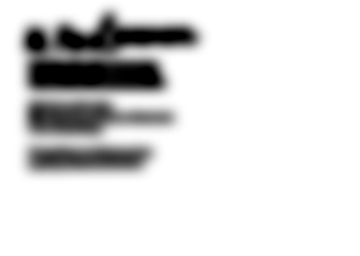
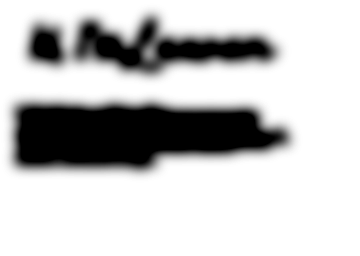
About steps through her frames 1, 2, 3 and the transition on scroll (#18)
Each scroll past the threshold brings the next words while the koi dart ahead;
from the transition the next scroll sets off for currently, and the About
leaves ride the current over with the koi.

Claude-Session: https://claude.ai/code/session_01BaK7PRdKtw21ohF7UwnR1N

diff --git a/index.html b/index.html
@@ -470,12 +470,12 @@
   const prog = gl.createProgram(); gl.attachShader(prog, sh(gl.VERTEX_SHADER, vs)); gl.attachShader(prog, sh(gl.FRAGMENT_SHADER, fs)); gl.linkProgram(prog); gl.useProgram(prog);
   const aP = gl.getAttribLocation(prog, 'p'), aUV = gl.getAttribLocation(prog, 'uv');
   gl.uniform2f(gl.getUniformLocation(prog, 'res'), W, H);
-  { const hx = AX + 542 * AS, hy = AY + 204 * AS;
+  { const hx = AX + 809 * AS, hy = AY + 8 * AS;
     gl.uniform4f(gl.getUniformLocation(prog, 'ovr'), AX, AY, AX + 1440 * AS, AY + 1024 * AS);
-    gl.uniform4f(gl.getUniformLocation(prog, 'hole'), hx, hy, hx + 642 * AS, hy + 830 * AS);
+    gl.uniform4f(gl.getUniformLocation(prog, 'hole'), hx, hy, hx + 631 * AS, hy + 1016 * AS);
     gl.uniform2f(gl.getUniformLocation(prog, 'ovrY'), AY - 300, AY + 300);
     gl.uniform1i(gl.getUniformLocation(prog, 't'), 0); gl.uniform1i(gl.getUniformLocation(prog, 'halo'), 1); }
-  { const im = new Image(); im.onload = () => { gl.activeTexture(gl.TEXTURE1); texFrom(im); gl.activeTexture(gl.TEXTURE0); }; im.src = 'about-halo.png?v=4'; }   // fades in with the About water, no hard edge
+  { const im = new Image(); im.onload = () => { gl.activeTexture(gl.TEXTURE1); texFrom(im); gl.activeTexture(gl.TEXTURE0); }; im.src = 'about-halo.png?v=5'; }   // fades in with the About water, no hard edge
   gl.enable(gl.BLEND); gl.blendFunc(gl.ONE, gl.ONE_MINUS_SRC_ALPHA);
   gl.pixelStorei(gl.UNPACK_PREMULTIPLY_ALPHA_WEBGL, true);
   const idx = []; for (let i = 0; i < N-1; i++) for (let j = 0; j < M-1; j++) { const a = i*M+j, b = a+1, c = a+M, d = c+1; idx.push(a,c,b, b,c,d); }
@@ -491,7 +491,7 @@
     #else
     precision mediump float;
     #endif
-    varying vec2 uv; varying vec2 wp; varying vec2 sp; uniform sampler2D t; uniform vec4 src; uniform vec4 fade; uniform vec4 fadex; uniform float time; uniform float edgeK; uniform float rep; uniform float own; uniform int mode; uniform vec2 body[16]; uniform vec3 trail[32];
+    varying vec2 uv; varying vec2 wp; varying vec2 sp; uniform sampler2D t; uniform vec4 src; uniform vec4 fade; uniform vec4 fadex; uniform float time; uniform float edgeK; uniform float rep; uniform float own; uniform float op; uniform int mode; uniform vec2 body[16]; uniform vec3 trail[32];
     void main(){
       // one continuous pond: texture coords come from world position, mirrored past the image edge,
       // so a section's water can run on under the next one while it cross-fades
@@ -513,7 +513,7 @@
       d += w / vec2(1440.0, 1024.0);
       // past her frame the window shows only water: another page's words, photo and pads stay out of the margins (edgeK > 0 only for those), the current page's are never cut
       float o = max(max(-sp.x, sp.x - 1440.0), max(-sp.y, sp.y - 1024.0)), outK = edgeK * smoothstep(0.0, 40.0, o);
-      if (mode == 3) { gl_FragColor = texture2D(t, tu) * a * (1.0 - outK); return; }      // lettering: stays crisp and still
+      if (mode == 3) { gl_FragColor = texture2D(t, tu) * a * op * (1.0 - outK); return; }      // lettering: stays crisp and still
       vec4 c = texture2D(t, tu + d);
       if (mode == 0) {                                                     // base water + drifting light
         float l = sin(q.x*5.0 + q.y*3.0 + sin(q.y*4.0 - time*0.2)*1.6 - time*0.18);
@@ -529,7 +529,7 @@
   const wU = { t: gl.getUniformLocation(wprog, 'time'), m: gl.getUniformLocation(wprog, 'mode'), b: gl.getUniformLocation(wprog, 'body'), tr: gl.getUniformLocation(wprog, 'trail'), r: gl.getUniformLocation(wprog, 'rect'), sr: gl.getUniformLocation(wprog, 'src'), f: gl.getUniformLocation(wprog, 'fade'), fx: gl.getUniformLocation(wprog, 'fadex'), c: gl.getUniformLocation(wprog, 'cam') };
   const uCam = gl.getUniformLocation(prog, 'cam'); let cam = 0, camX = 0, camZ = 1;
   const view = () => [camX - EXT[0] / camZ, cam - EXT[1] / camZ, camX + (1440 + EXT[0]) / camZ, cam + (1024 + EXT[1]) / camZ];
-  const wEdge = gl.getUniformLocation(wprog, 'edgeK'), wRep = gl.getUniformLocation(wprog, 'rep'), wOwn = gl.getUniformLocation(wprog, 'own'), uEdge = gl.getUniformLocation(prog, 'edge'), uExt = gl.getUniformLocation(prog, 'ext'), wExt = gl.getUniformLocation(wprog, 'ext');
+  const wEdge = gl.getUniformLocation(wprog, 'edgeK'), wRep = gl.getUniformLocation(wprog, 'rep'), wOwn = gl.getUniformLocation(wprog, 'own'), wOp = gl.getUniformLocation(wprog, 'op'), uEdge = gl.getUniformLocation(prog, 'edge'), uExt = gl.getUniformLocation(prog, 'ext'), wExt = gl.getUniformLocation(wprog, 'ext');
   const quad = gl.createBuffer(); gl.bindBuffer(gl.ARRAY_BUFFER, quad); gl.bufferData(gl.ARRAY_BUFFER, new Float32Array([-1,-1, 1,-1, -1,1, 1,1]), gl.STATIC_DRAW);
   const bodyArr = new Float32Array(32), trailArr = new Float32Array(96);
   function texFrom(img) {
@@ -547,7 +547,10 @@
     gl.useProgram(wprog); gl.uniform3f(wU.c, camX, cam, camZ); gl.uniform2f(wExt, EXT[0], EXT[1]); gl.uniform1f(wU.t, time); gl.uniform2fv(wU.b, bodyArr); gl.uniform3fv(wU.tr, trailArr);
   }
   const RECT = { base: [0,0,1440,1024], letter: [0,0,1440,1024], texture: [0,0,1440,1024], lines: [0,0,1440,1024],
-    aboutWater: [AX,AY,1440*AS,1024*AS], aboutLetter: [AX,AY,1440*AS,320*AS], aboutText: [AX,AY,1440*AS,1024*AS], photo: [...A(542,204),642*AS,830*AS] };   // About, laid out on the rule of thirds: headline sits on the top third line, her face on the right-third crossing, text ends on the lower third line
+    aboutWater: [AX,AY,1440*AS,1024*AS], aboutLetter: [AX,AY,1440*AS,320*AS], aboutText: [...A(119,74),991*AS,208*AS], photo: [...A(809.27,7.7),630.53*AS,1016.25*AS] };   // About, from her About 1-3 and transition frames (1728 x 1117, fitted to the frame's height): "hi, I'm Lauren" top left, her photo on the right
+  // the words that change as you scroll through About: 1, 2, 3, then "follow the current ~" (the transition)
+  const ABOUT_STEPS = [[125,424,961,172], [59,420,1096,256], [74,459,933,164], [232,470,608,100]];
+  ABOUT_STEPS.forEach((r, i) => { RECT['aboutStep' + i] = [...A(r[0], r[1]), r[2] * AS, r[3] * AS]; });
   // no edge between the sections: the Landing water runs on below its frame and the About water fades in over it
   const BLEND = 300, NOFADE = [-1e6, -1e6, 1e6, 1e6];
   RECT.pond = RECT.base;
@@ -558,13 +561,13 @@
   DRAW.artWater = [GX, AY - BLEND, GW * AS + 900, GH * AS + 900];   // starts at its own edge: a mirrored copy of her big pads used to spill under the tbd pad on currently
   const FADEX = { worksWater: [WX - BLEND, WX + BLEND, 0, 0], artWater: [GX, GX + 520, 140, 0] };   // the art pond melts in over a wide, wavy edge   // each page's water flows in sideways over the last
   const FADE = { worksWater: [AY - BLEND, AY + BLEND, 1e6, 1e6], artWater: [AY - BLEND, AY + BLEND, 1e6, 1e6], texture: [-1e6, -1e6, AY - BLEND, AY + BLEND], lines: [-1e6, -1e6, AY - BLEND, AY + BLEND], aboutWater: [AY - BLEND, AY + BLEND, 1e6, 1e6] };
-  const PAGE_OF = { letter: 'base', photo: 'aboutWater', aboutText: 'aboutWater', aboutLetter: 'aboutWater', worksTop: 'worksWater', artTop: 'artWater', artWater: 'artWater' };
-  function drawLayer(name, mode) {
-    if (!LAYER[name]) return;
+  const PAGE_OF = { letter: 'base', photo: 'aboutWater', aboutText: 'aboutWater', aboutLetter: 'aboutWater', aboutStep0: 'aboutWater', aboutStep1: 'aboutWater', aboutStep2: 'aboutWater', aboutStep3: 'aboutWater', worksTop: 'worksWater', artTop: 'artWater', artWater: 'artWater' };
+  function drawLayer(name, mode, op) {
+    if (!LAYER[name] || op === 0) return;
     const sr = RECT[name], r = DRAW[name] || sr, vw = view(); if (r[1] > vw[3] || r[1] + r[3] < vw[1]) return;
     gl.useProgram(wprog); gl.uniform4fv(wU.r, r); gl.uniform4fv(wU.sr, sr); gl.uniform4fv(wU.f, FADE[name] || NOFADE); gl.uniform4fv(wU.fx, FADEX[name] || [-1e6, -9e5, 0, 0]); // the water itself is one continuous pond (no masks, so no seams); only another page's words, photo, pads and the art pond's painted pads are kept out of the margins
       gl.uniform1f(wEdge, PAGE_OF[name] && PAGE_OF[name] !== ownerShown ? ownerK : 0); gl.uniform1f(wOwn, 0);
-    gl.uniform1f(wRep, name === 'artWater' ? 0 : 1);
+    gl.uniform1f(wRep, name === 'artWater' ? 0 : 1); gl.uniform1f(wOp, op === undefined ? 1 : op);
     gl.useProgram(wprog); gl.disableVertexAttribArray(aUV);
     gl.bindBuffer(gl.ARRAY_BUFFER, quad); gl.enableVertexAttribArray(wAP); gl.vertexAttribPointer(wAP, 2, gl.FLOAT, false, 0, 0);
     gl.uniform1i(wU.m, mode); gl.bindTexture(gl.TEXTURE_2D, LAYER[name]); gl.drawArrays(gl.TRIANGLE_STRIP, 0, 4);
@@ -586,26 +589,39 @@
     }
   });
   // the same drifts on every other page, laid along that page's swim loop and sized so they look the same on screen at that page's zoom
-  { const drift = (path, bands, k, n) => bands.forEach(([f0, f1], band) => { for (let i = 0; i < n; i++) {
+  // the About drift is also the currently drift: at the transition its leaves ride the current over with the koi, a few at a time
+  { const drift = (path, bands, k, n, path2) => bands.forEach(([f0, f1], band) => { for (let i = 0; i < n; i++) {
       const u = i / (n - 1), fr = f0 + (f1 - f0) * u, side = (i % 2 ? 1 : -1) * (14 + 18 * Math.sin(u * Math.PI));
-      LEAVES.push({ path, fr, k, off: (side + Math.sin(i * 2.1 + band) * 6) * k, img: `leaf-${COLORS[(i + band * 3 + 2) % COLORS.length]}.png`,
+      LEAVES.push({ path, path2, lag: path2 ? ((i * 5 + band * 3) % 8) / 8 * 0.4 : 0, fr, k, off: (side + Math.sin(i * 2.1 + band) * 6) * k, img: `leaf-${COLORS[(i + band * 3 + 2) % COLORS.length]}.png`,
         size: (24 + ((i * 7 + band * 3) % 4) * 3) * k, tilt: Math.sin(i * 1.7 + band) * 0.45, dx: 0, dy: 0, vx: 0, vy: 0, wob: i * 1.3 + band }); } });
-    drift(ABOUT_OVAL, [[0.08, 0.25], [0.58, 0.75]], AS, 8);
-    drift(WORKS_OVAL, [[0.08, 0.25], [0.58, 0.75]], AS, 8);
+    drift(ABOUT_OVAL, [[0.08, 0.25], [0.58, 0.75]], AS, 8, WORKS_OVAL);
     drift(ART_OVAL, [[0.02, 0.12], [0.27, 0.37], [0.52, 0.62], [0.77, 0.87]], 1 / ZA, 8); }
   const leafUV = gl.createBuffer(); gl.bindBuffer(gl.ARRAY_BUFFER, leafUV); gl.bufferData(gl.ARRAY_BUFFER, new Float32Array([0,0, 1,0, 0,1, 1,1]), gl.STATIC_DRAW);
   const leafPB = gl.createBuffer(), leafPos = new Float32Array(8);
-  let leafSpin = 0;
+  let leafSpin = 0, leafCarry = 0;                 // 0: About's leaves drift round About; 1: they've ridden the current over to currently
+  function onPath(P, L) {
+    const x = (((L.fr + leafSpin / (2 * Math.PI)) % 1) + 1) % 1 * P.n, i = Math.min(P.n - 1, Math.floor(x)), g = x - i;
+    const a = P.p[i], b = P.p[i + 1], q = [a[0] + (b[0] - a[0]) * g, a[1] + (b[1] - a[1]) * g], t = norm(sub(b, a)), nrm = [-t[1], t[0]];
+    return { p: add(q, mul(nrm, L.off)), t };
+  }
   function leafHome(L) {
-    if (L.path) { const P = L.path, x = (((L.fr + leafSpin / (2 * Math.PI)) % 1) + 1) % 1 * P.n, i = Math.min(P.n - 1, Math.floor(x)), g = x - i;
-      const a = P.p[i], b = P.p[i + 1], q = [a[0] + (b[0] - a[0]) * g, a[1] + (b[1] - a[1]) * g], t = norm(sub(b, a)), nrm = [-t[1], t[0]];
-      return { p: add(q, mul(nrm, L.off)), a: Math.atan2(t[1], t[0]) + L.tilt }; }
+    if (L.path) { const h = onPath(L.path, L);
+      if (!L.path2 || leafCarry <= 0) return { p: h.p, a: Math.atan2(h.t[1], h.t[0]) + L.tilt };
+      const m = smooth(Math.max(0, Math.min(1, (leafCarry - L.lag) / 0.6))), h2 = onPath(L.path2, L);
+      if (m >= 1) return { p: h2.p, a: Math.atan2(h2.t[1], h2.t[0]) + L.tilt };
+      const w = Math.sin(Math.PI * m), p = add(add(h.p, mul(sub(h2.p, h.p), m)), [0, w * Math.sin(L.wob * 2.3) * 90 * L.k]);   // swept along, bobbing on the way
+      const t = add(mul(h.t, 1 - m), add(mul(h2.t, m), [w * 2, 0]));                // they turn to face downstream mid-way
+      return { p, a: Math.atan2(t[1], t[0]) + L.tilt }; }
     const f = L.phi + leafSpin, x = C[0] + RX * Math.cos(f), y = C[1] - RY * Math.sin(f);
     const t = norm([-RX * Math.sin(f), -RY * Math.cos(f)]), nrm = [-t[1], t[0]];
     return { p: add([x, y], mul(nrm, L.off)), a: Math.atan2(t[1], t[0]) + L.tilt };
   }
   function stepLeaves(dt, time) {
     leafSpin += dt * 0.012;                                     // the drifts turn with the pond, very slowly
+    { const tgt = page === 'works' || page === 'art' ? 1 : 0;     // About's leaves follow the koi over to currently (and back), just behind the view
+      if (camAnim && !camAnim.zoom) leafCarry = tgt ? Math.max(leafCarry, camAnim.p * 1.25 - 0.15) : Math.min(leafCarry, 1.15 - camAnim.p * 1.25);
+      else leafCarry += (tgt - leafCarry) * (dt ? 1 - Math.exp(-dt * 2) : 1);
+      leafCarry = Math.max(0, Math.min(1, leafCarry)); if (Math.abs(tgt - leafCarry) < 0.002) leafCarry = tgt; else dirty = true; }
     for (const L of LEAVES) {
       const h = leafHome(L); const x = h.p[0] + L.dx, y = h.p[1] + L.dy;
       let fx = -L.dx * 1.2, fy = -L.dy * 1.2;                   // ease back toward the drift
@@ -892,10 +908,38 @@
     syncUI(); dirty = true;
   }
   followBtn.addEventListener('click', () => go('works', true));
+  // ---- About in four steps, like her frames About 1, 2, 3 and the transition: each scroll past the threshold brings the next words,
+  // and the koi lead the way with the same swim they make when they set off for a new page (a planned glide that speeds up and eases off).
+  // From the transition ("follow the current ~") the next scroll is the click: the koi set off for currently and the view and leaves follow.
+  let aboutStep = 0, stepDir = 1;
+  const stepK = [1, 0, 0, 0], stepIn = [0, 0, 0, 0];
+  function setAboutStep(n, guide) {
+    n = Math.max(0, Math.min(3, n)); if (n === aboutStep) return;
+    stepDir = n > aboutStep ? 1 : -1; aboutStep = n; stepIn[n] = guide ? 0.35 : 0;   // the new words wait a beat for the koi to come through
+    if (guide && running && mode === 'about') KOI.forEach(k => {               // the koi dart on round the pond ahead of the words
+      if (k.trans || !k.tp) return; const X = 1500;
+      k.trans = { d0: k.dist, d1: k.dist + X, len: X, sc0: k.sc, sc1: k.sc, guide: true }; });
+    if (!running || !guide) stepK.forEach((_, i) => { stepK[i] = i === n ? 1 : 0; });
+    dirty = true;
+  }
+  function stepAbout(dt) {
+    let busy = false;
+    for (let i = 0; i < 4; i++) {
+      const on = i === aboutStep;
+      if (on && stepIn[i] > 0) { stepIn[i] -= dt; busy = true; continue; }
+      const g = on ? 1 : 0, k = dt ? 1 - Math.exp(-dt * (on ? 3 : 5)) : 1;
+      stepK[i] += (g - stepK[i]) * k; if (Math.abs(g - stepK[i]) < 0.004) stepK[i] = g; else busy = true;
+      const r = RECT['aboutStep' + i], off = (1 - stepK[i]) * 46 * AS * stepDir * (on ? -1 : 1);   // words drift in on the current and drift on out
+      DRAW['aboutStep' + i] = off ? [r[0] + off, r[1], r[2], r[3]] : r;
+    }
+    if (busy) dirty = true;
+  }
+  window.__about = () => [aboutStep, stepK.map(v => +v.toFixed(2)), leafCarry.toFixed(2)];
   artPad.addEventListener('click', () => go('art', true));      // the koi swim off to the right and the view follows them downstream to the art pond
   // jump anywhere: home (landing) and About are scroll spots on the first page; currently and fine art slide across
-  function navTo(spot) {
+  function navTo(spot, step) {
     if (spot === 'works' || spot === 'art') return go(spot, true);
+    if (spot === 'about') setAboutStep(step || 0, false);       // the menu opens About at its start; coming back from currently lands on the transition
     if (page !== 'home') return go('home', true, spot);
     scrollTo({ top: spot === 'landing' ? 0 : innerHeight, behavior: matchMedia('(prefers-reduced-motion: reduce)').matches ? 'auto' : 'smooth' });
   }
@@ -1003,9 +1047,8 @@
     el.style.left = ((wx - camX) * k) + 'px'; el.style.top = ((wy - cam) * k) + 'px'; el.style.width = (w * k) + 'px'; el.style.height = (h * k) + 'px';
   }
   function placeUI() {
-    const P = PADS[1], pc = A(1262, 840);
-    place(followBtn, pc[0] - 165 * AS + P.dx, pc[1] - 165 * AS + P.dy, 330 * AS, 330 * AS, page === 'home' && cam > AY * 0.6);
-    followBtn.style.transform = `rotate(${P.a}rad)`;
+    const fr = RECT.aboutStep3;               // "follow the current ~" can be clicked too, once it's showing
+    place(followBtn, fr[0], fr[1], fr[2], fr[3], page === 'home' && cam > AY * 0.6 && aboutStep === 3 && stepK[3] > 0.5);
     const q = Wk(1222, 740);   // her "Fine Art" pad, bottom right on currently (Figma)
     place(artPad, q[0] - 165 * AS, q[1] - 165 * AS, 330 * AS, 330 * AS, page === 'works' && !camAnim);
     floatPieces();
@@ -1047,6 +1090,7 @@
     home = [720 - 720 / z, p * AY, z];
     const dy = y - lastY; lastY = y;
     note.textContent = p > 0.9 ? '' : 'scroll down'; backBtn.hidden = p < 0.5;
+    if (p < 0.5 && aboutStep) setAboutStep(0, false);   // back on the landing page: About starts again from its first words
     if (dy > 0 && p > 0.03) retarget('about', running);
     else if (dy < 0 && p < 0.97) retarget('landing', running);
     else if (!running) retarget(p > 0.5 ? 'about' : 'landing', false);
@@ -1062,6 +1106,9 @@
     const spot = () => page === 'art' ? 'art' : page === 'works' ? 'works' : scrollY > innerHeight * 0.5 ? 'about' : 'landing';
     const NEXT = { landing: ['about', [0, 1]], about: ['works', [1, 0]], works: ['art', [1, 0]] };
     const PREV = { about: ['landing', [0, -1]], works: ['about', [-1, 0]], art: ['works', [-1, 0]] };
+    const nextOf = (here, d) => here !== 'about' ? (d > 0 ? NEXT : PREV)[here]        // About steps through her four frames before it lets go
+      : d > 0 ? (aboutStep < 3 ? ['step', [0, 0.4]] : NEXT.about) : (aboutStep > 0 ? ['step', [0, -0.4]] : PREV.about);
+    const take = (to, d) => to[0] === 'step' ? setAboutStep(aboutStep + Math.sign(d), true) : navTo(to[0], spot() === 'works' && to[0] === 'about' ? 3 : 0);
     const free = d => page === 'art' && openIdx < 0 && (d > 0 || scrollY > 2);   // on the art pond the scroll glides along it; only its start edge is a threshold
     function show() {
       const k = Math.min(1, Math.abs(acc) / NEED);
@@ -1079,11 +1126,11 @@
       lockUntil = 0;
       if (free(d)) { if (acc) { acc = 0; show(); } return; }
       if (e && e.cancelable) e.preventDefault();
-      const here = spot(), to = (d > 0 ? NEXT : PREV)[here];
+      const here = spot(), to = nextOf(here, d);
       if (!to) return;
       if (Math.sign(d) !== Math.sign(acc)) acc = 0;
       acc += d; pullDir = to[1]; show();
-      if (Math.abs(acc) >= NEED) { acc = 0; show(); lockUntil = now + 900; navTo(to[0]); return; }
+      if (Math.abs(acc) >= NEED) { acc = 0; show(); lockUntil = now + 900; take(to, d); return; }
       if (!raf) raf = requestAnimationFrame(relax);
     }
     window.__pull = () => [acc, lockUntil - performance.now(), spot(), !!camAnim, openIdx];
@@ -1095,7 +1142,7 @@
       if (openIdx >= 0 || camAnim || e.target.closest && e.target.closest('input, textarea')) return;
       const dn = ['ArrowDown', 'PageDown', ' '].includes(e.key), up = ['ArrowUp', 'PageUp'].includes(e.key);
       if (!dn && !up || free(dn ? 1 : -1)) return;
-      const to = (dn ? NEXT : PREV)[spot()]; if (to) { e.preventDefault(); navTo(to[0]); }
+      const to = nextOf(spot(), dn ? 1 : -1); if (to) { e.preventDefault(); take(to, dn ? 1 : -1); }
     });
   }
   addEventListener('pointermove', e => { if (e.pointerType === 'mouse') { mouse = [e.clientX, e.clientY]; if (page === 'art') dirty = true; } }, { passive: true });
@@ -1130,9 +1177,10 @@
       gl.useProgram(prog); koiCam(true); draw(painted); koiCam(false);
       drawLayer('texture', 1); drawLayer('lines', 2);
       drawLayer('photo', 3);                           // as in Figma: painted koi under the photo, orange koi over it
-      drawPad(t, PADS[1]);                             // her second pad sits over the photo and painted koi, under the orange
       gl.useProgram(prog); koiCam(true); draw(orange); koiCam(false);
       drawLayer('aboutText', 3);                       // all About text sits above both koi (and above her overlay)
+      stepAbout(dt);
+      for (let i = 0; i < 4; i++) drawLayer('aboutStep' + i, 3, stepK[i]);   // the words for the step you're on; the last ones swim off as the next arrive
       drawLayer('worksTop', 3); drawLayer('artTop', 3);   // the koi swim under her pads and under the artwork
     }
     if (camAnim && camAnim.snap) {                    // freeze the dive's last frame over the canvas, then swap the pond underneath
@@ -1146,7 +1194,7 @@
     requestAnimationFrame(frame);
   }
   const LAYER_SRC = { base: 'water-base.png?v=5', letter: 'lettering.png?v=1', texture: 'water-texture.png?v=2', lines: 'water-lines.png?v=2',
-    aboutWater: 'about-water.png?v=3', aboutLetter: 'about-letter.png?v=2', photo: 'about-photo.png?v=5', aboutText: 'about-text.png?v=5',
+    aboutWater: 'about-water.png?v=3', aboutLetter: 'about-letter.png?v=2', photo: 'about-photo.png?v=7', aboutText: 'about-text.png?v=7', aboutStep0: 'about-step-0.png?v=1', aboutStep1: 'about-step-1.png?v=1', aboutStep2: 'about-step-2.png?v=1', aboutStep3: 'about-step-3.png?v=1',
     worksWater: 'works-water.png?v=2', worksTop: 'works-top.png?v=2', artWater: 'art-water-land.jpg?v=1', artTop: 'art-top-float.png?v=1' };
   Object.entries(LAYER_SRC).forEach(([k, src]) => { const im = new Image(); im.onload = () => { LAYER[k] = texFrom(im); }; im.src = src; });
   let loaded = 0;
